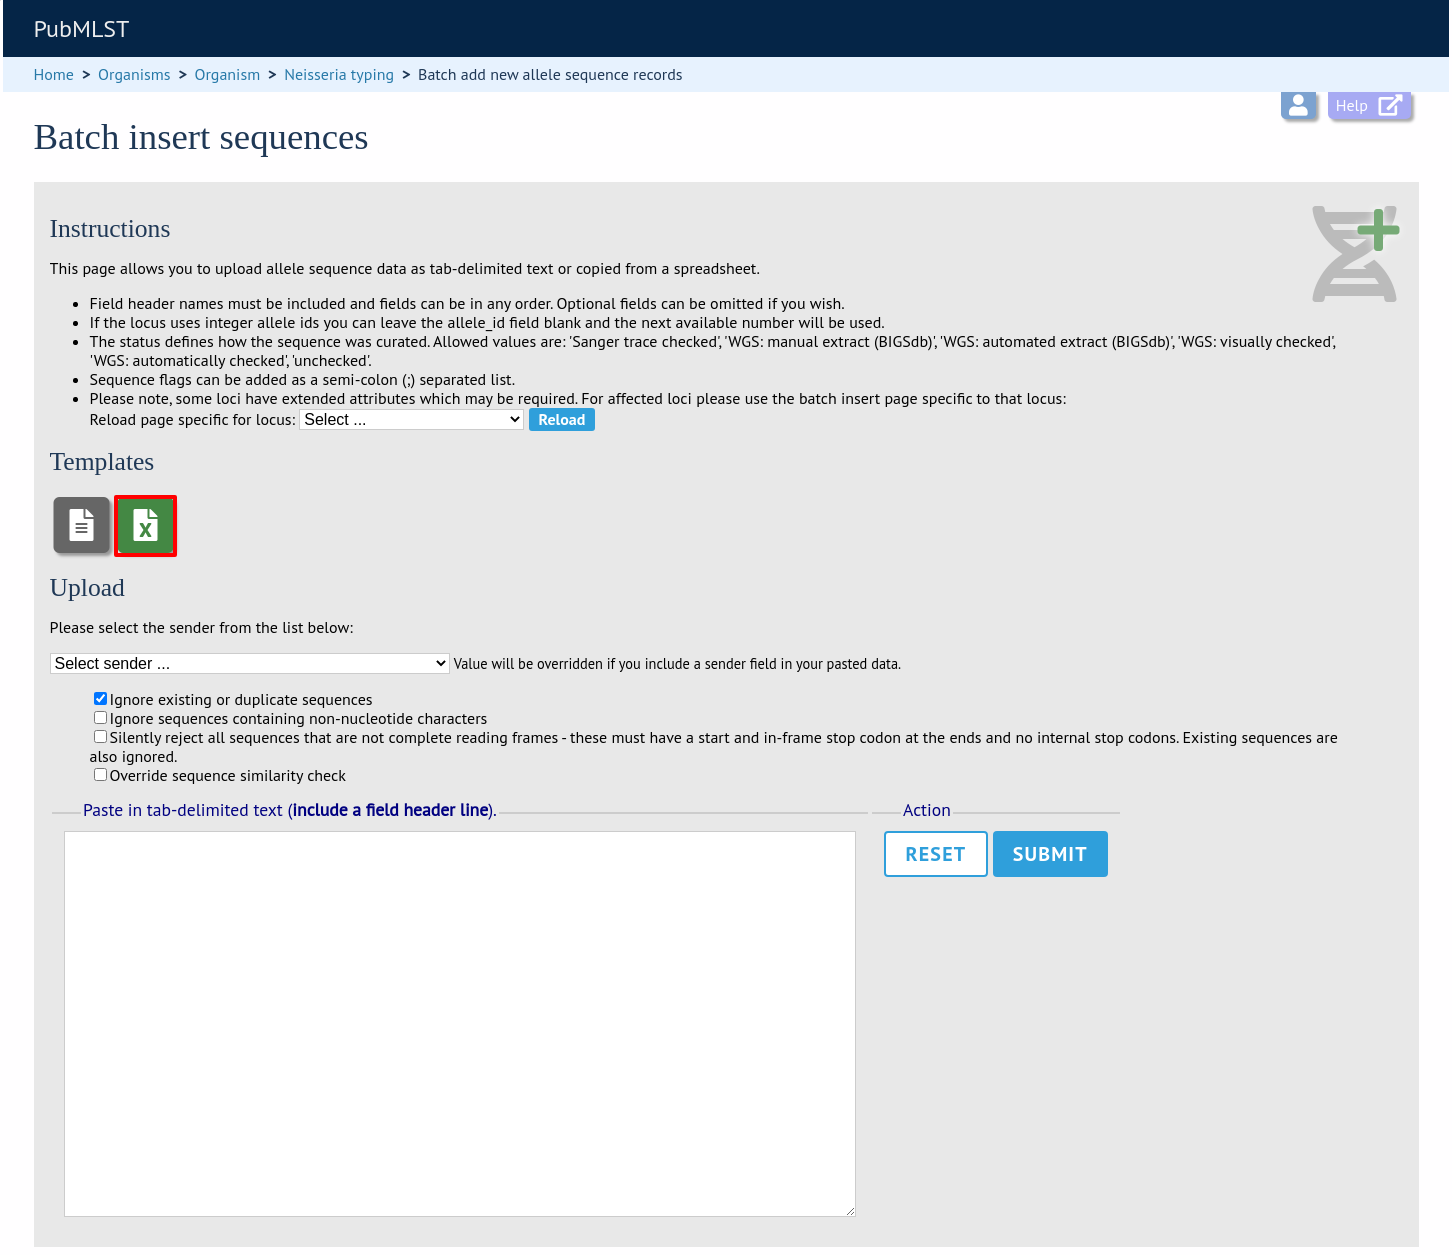
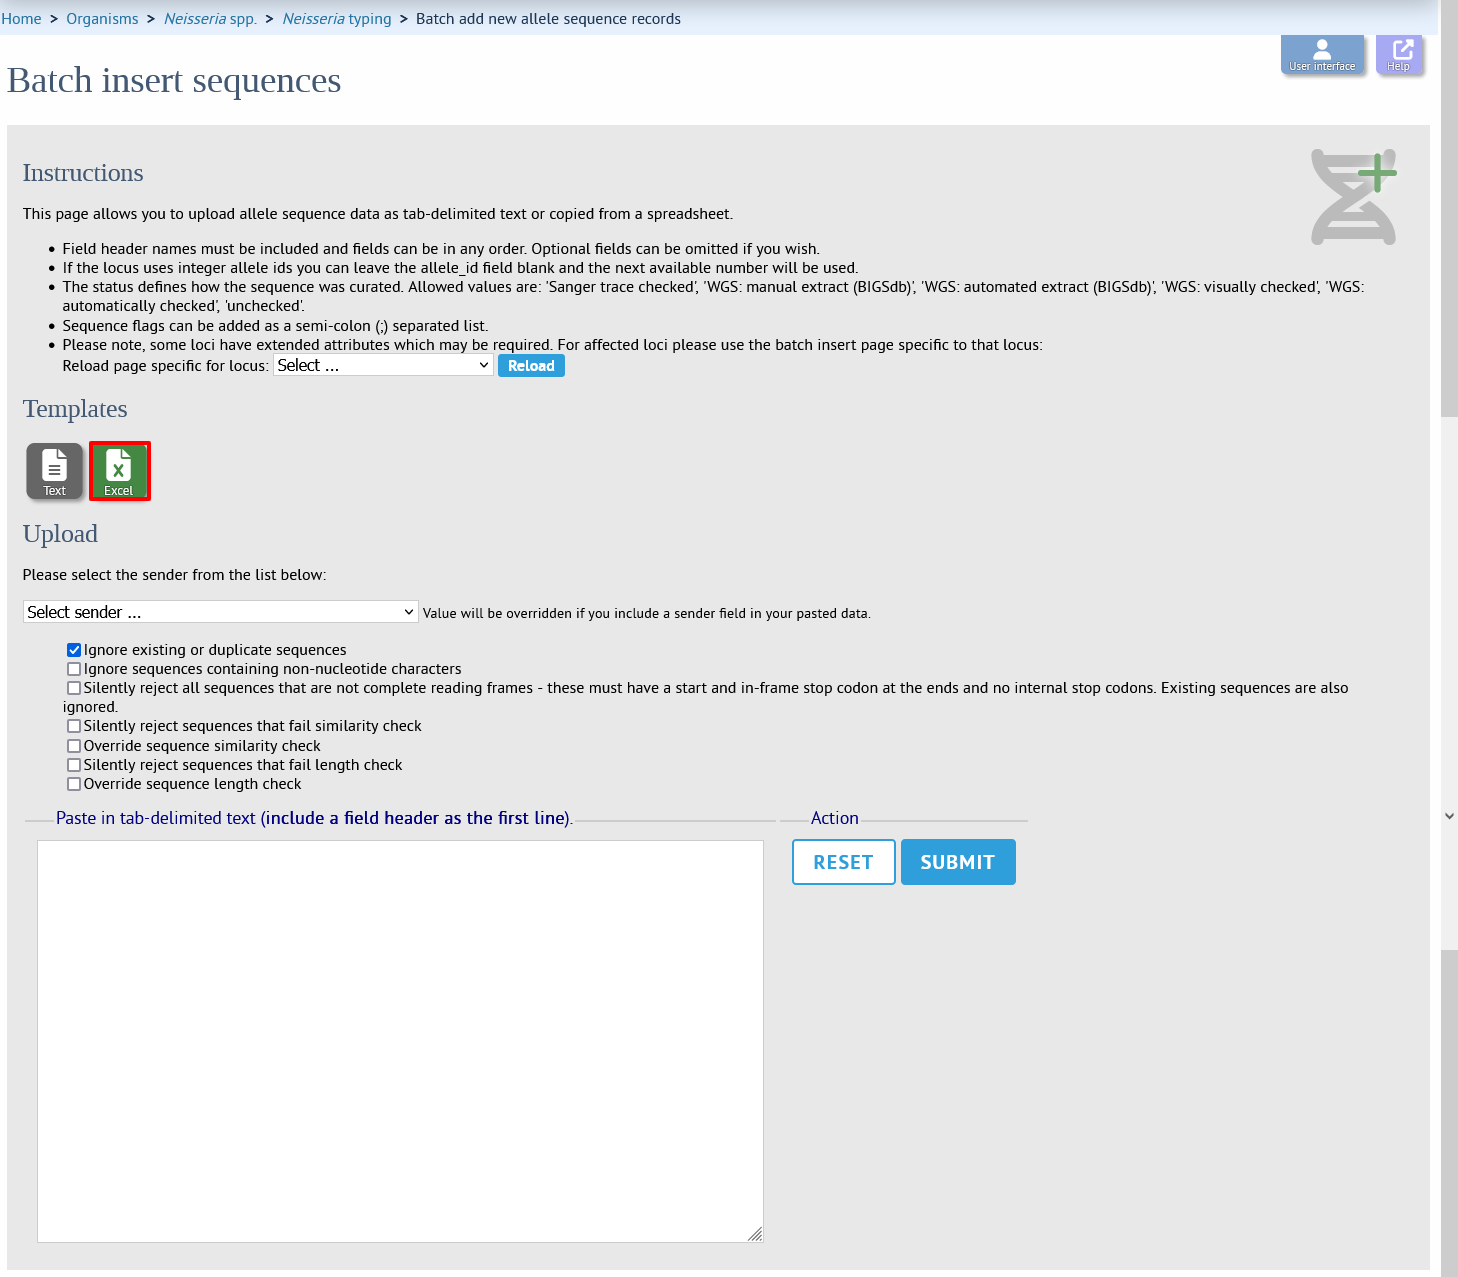
Add new filtering options for batch allele upload.

Changed region(s): [[0.0, 0.0, 1.0, 0.6526], [0.9607, 0.7458, 1.0, 1.0], [0.5269, 0.6215, 0.7748, 0.7147]]

diff --git a/curator_guide/0020_adding_new_alleles.rst b/curator_guide/0020_adding_new_alleles.rst
@@ -115,7 +115,7 @@ sender from the dropdown box.
 
 Additionally, there are a number of options available.  Some of these will 
 ignore sequences if they don't match certain criteria - this is useful when 
-sequence data has been extracted from genomes automatically.  Available options
+sequence data has been extracted from genomes automatically. Available options
 are:
 
 * Ignore existing or duplicate sequences.
@@ -123,7 +123,10 @@ are:
 * Silently reject all sequences that are not complete reading frames - these 
   must have a start and in-frame stop codon at the ends and no internal stop 
   codons. Existing sequences are also ignored.
+* Silently reject sequences that fail similarity check.
 * Override sequence similarity check.
+* Silently reject sequences that fail length check.
+* Override sequence length check.
 
 .. image:: /images/curation/add_alleles5.png
 
